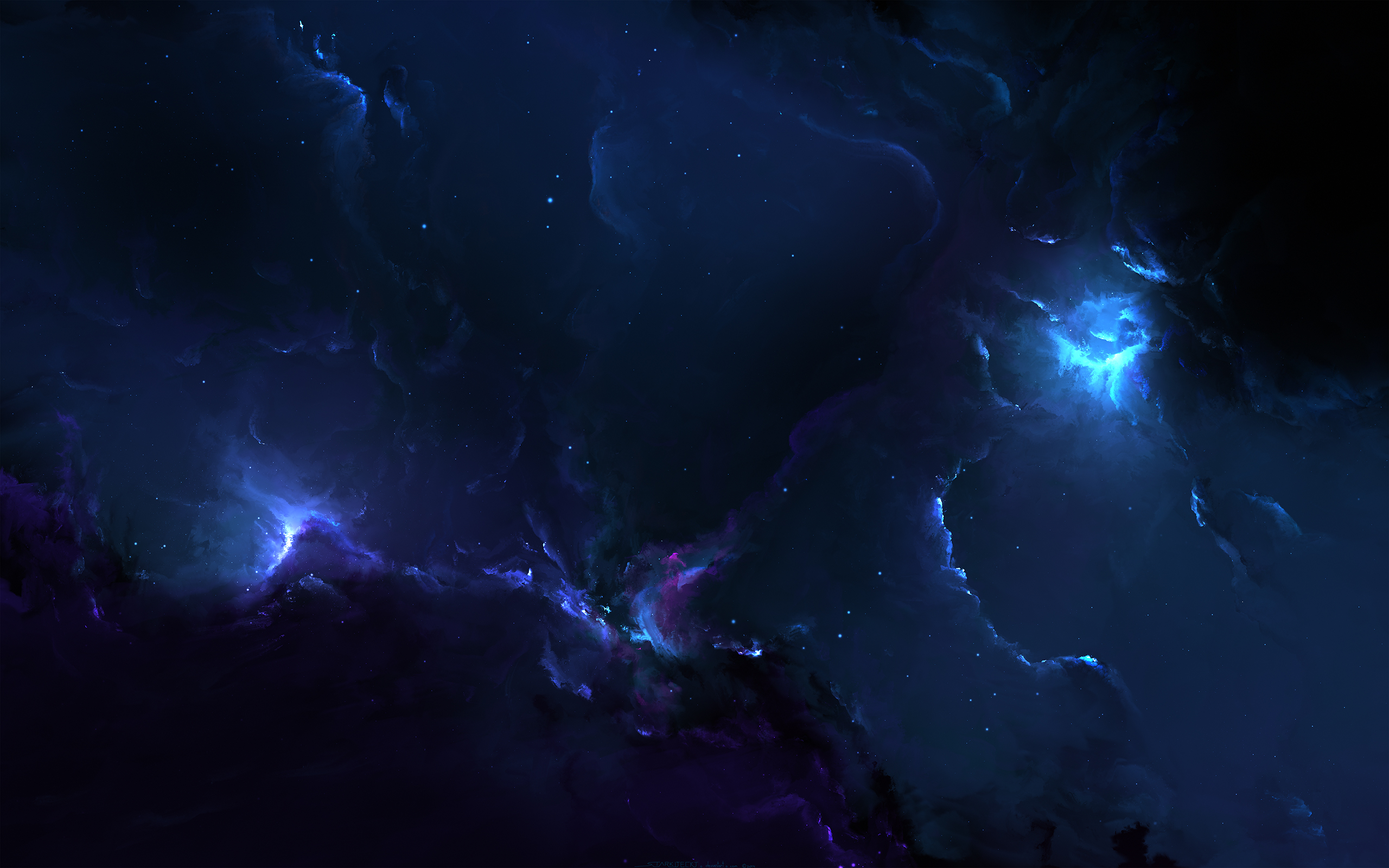
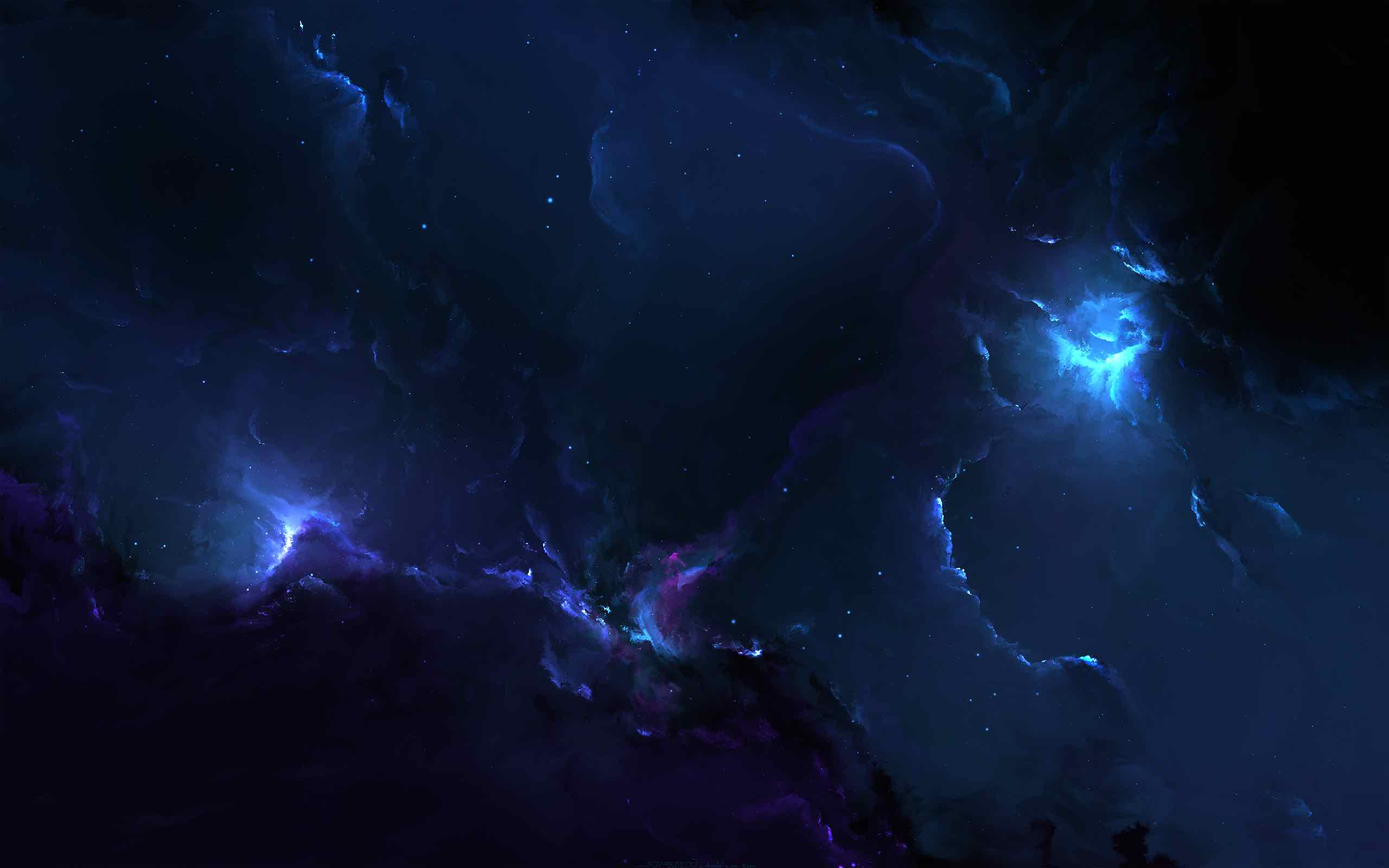
reduce image file data

diff --git a/README.md b/README.md
@@ -1,3 +1,5 @@
-**struggle**
+struggle
 
 for the future 
+
+[https://mr-yo.github.io/](https://mr-yo.github.io/)
